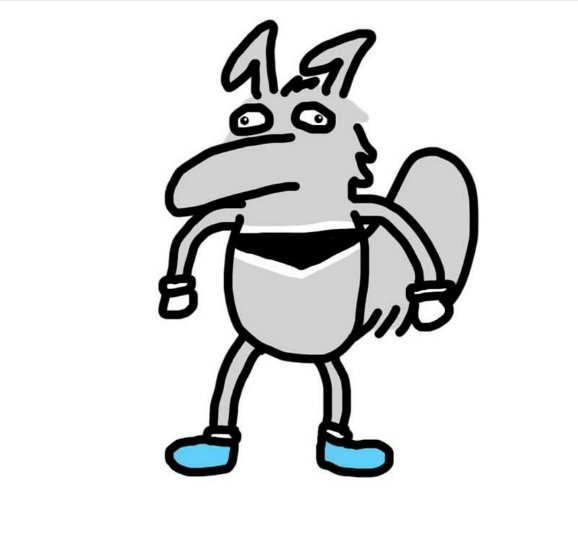
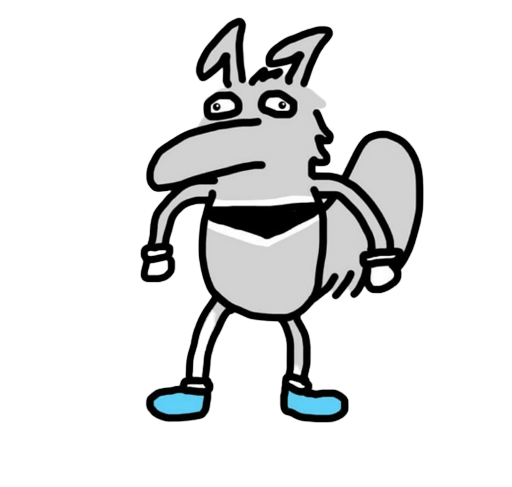
Swapped petr picture to webjam petr

diff --git a/src/components/ChangeImage.jsx b/src/components/ChangeImage.jsx
@@ -1,5 +1,8 @@
+import webjampetr from "../images/webjampetr.png";
+
 const React = require("react");
-class DisplayImage extends React.Component {
+
+class ChangeImage extends React.Component {
   constructor(props) {
     super(props);
     this.state = {
@@ -7,11 +10,29 @@ class DisplayImage extends React.Component {
     };
     this.handleChange = this.handleChange.bind(this);
   }
+
   handleChange(event) {
-    this.setState({
-      file: URL.createObjectURL(event.target.files[0]),
-    });
+    const img = new Image();
+    img.src = URL.createObjectURL(event.target.files[0]);
+
+    const canvas = document.createElement("canvas");
+    const ctx = canvas.getContext("2d");
+
+    img.onload = () => {
+      ctx.drawImage(img, 0, 0, 800, 800);
+    };
+
+    const petr_img = new Image();
+    petr_img.src = URL.createObjectURL({ webjampetr });
+
+    petr_img.onload = () => {
+      ctx.drawImage(img, 0, 0, 100, 100);
+      this.setState({
+        file: canvas.toDataURL("image/png"),
+      });
+    };
   }
+
   render() {
     return (
       <div>
@@ -26,6 +47,7 @@ class DisplayImage extends React.Component {
         <br />
         <img
           id="UploadedImage"
+          alt="Your pic with Petr"
           src={this.state.file}
           style={{ width: "100%", height: "500px" }}
         />
@@ -33,4 +55,4 @@ class DisplayImage extends React.Component {
     );
   }
 }
-export default DisplayImage;
+export default ChangeImage;

diff --git a/src/components/RandomizePetr.jsx b/src/components/RandomizePetr.jsx
@@ -1,21 +1,19 @@
-
 import React, { Component } from "react";
-import petr from '../images/petr-removebg.png'
-  
+import petr from "../images/petr.png";
+
 class RandomizePetr extends Component {
-  
   // Create state
   state = {
     topPos: Math.random() * 90,
     leftPos: Math.random() * 90,
-    count: 0
+    count: 0,
   };
-   
+
   movePetr = () => {
-    this.setState(
-      { topPos: Math.random() * 90,
-        leftPos: Math.random() * 90,
-        count: this.state.count + 1
+    this.setState({
+      topPos: Math.random() * 90,
+      leftPos: Math.random() * 90,
+      count: this.state.count + 1,
     });
   };
 
@@ -25,21 +23,19 @@ class RandomizePetr extends Component {
         <h1> Times you've clicked Petr: {this.state.count}</h1>
         {/* Element to Move Dynamically */}
         <img
-            style={{
+          style={{
             height: 100,
-            position: 'absolute',
+            position: "absolute",
             left: `${this.state.leftPos}%`,
-            top: `${this.state.topPos}%` }}
-            
-            src={petr}
-            
-            alt= "Petr"
-            
-            onClick={this.movePetr}/>
-   
+            top: `${this.state.topPos}%`,
+          }}
+          src={petr}
+          alt="Petr"
+          onClick={this.movePetr}
+        />
       </div>
     );
   }
 }
-   
+
 export default RandomizePetr;

diff --git a/src/App.js b/src/App.js
@@ -2,6 +2,7 @@ import logo from "./logo.svg";
 import "./App.css";
 import RandomizePetr from "./components/RandomizePetr";
 import DisplayImage from "./components/DisplayImage";
+import ChangeImage from "./components/ChangeImage";
 
 function App() {
   return (
